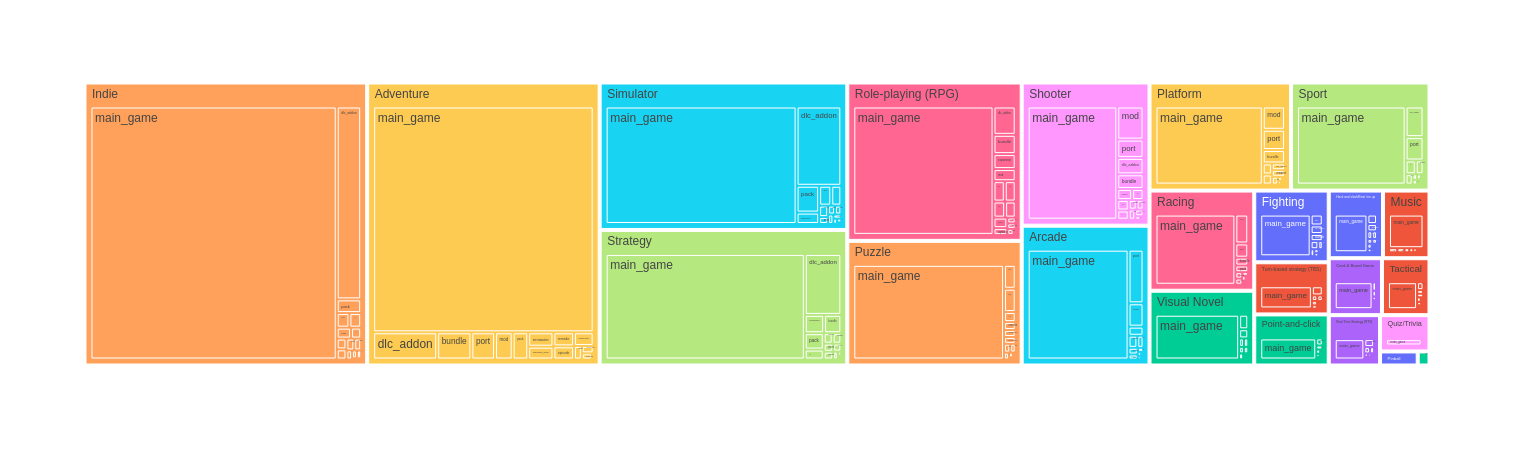
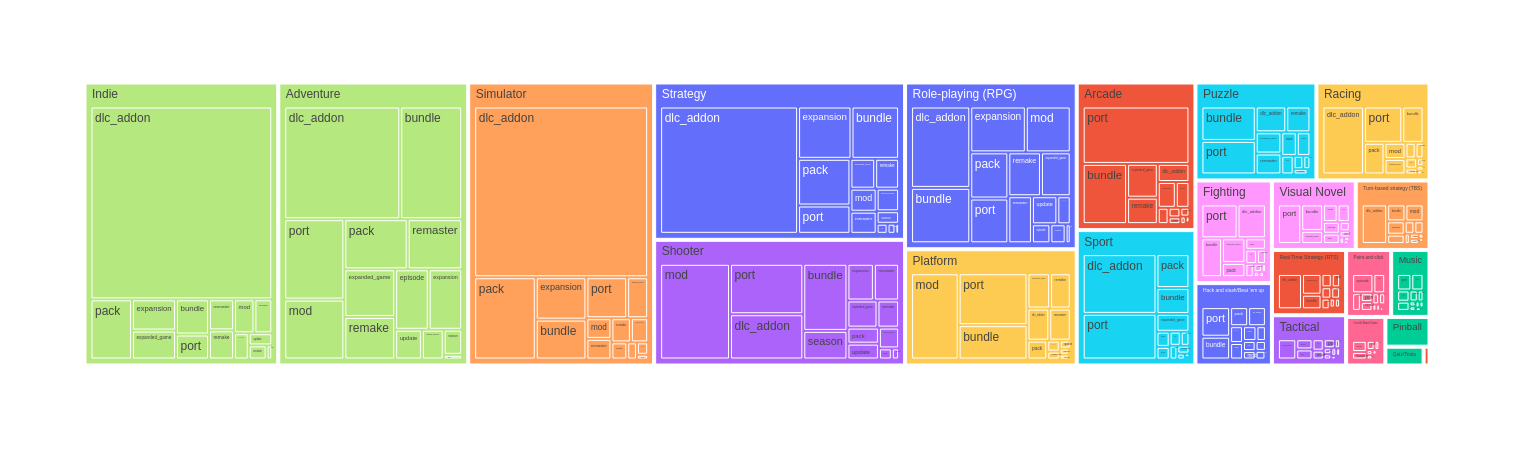
updated visualizations

diff --git a/visualization.py b/visualization.py
@@ -160,6 +160,8 @@ def genres_categories_fig(dataframe):
             genres_dict[genre] = genres_dict[genre] + 1
 
         genres_categories_dict[category] = genres_dict
+    
+    del genres_categories_dict['main_game']
 
     df_melt = pd.DataFrame(genres_categories_dict).reset_index().melt(id_vars='index', var_name='category', value_name='value')
     df_melt.rename(columns={'index':'genre'}, inplace=True)
